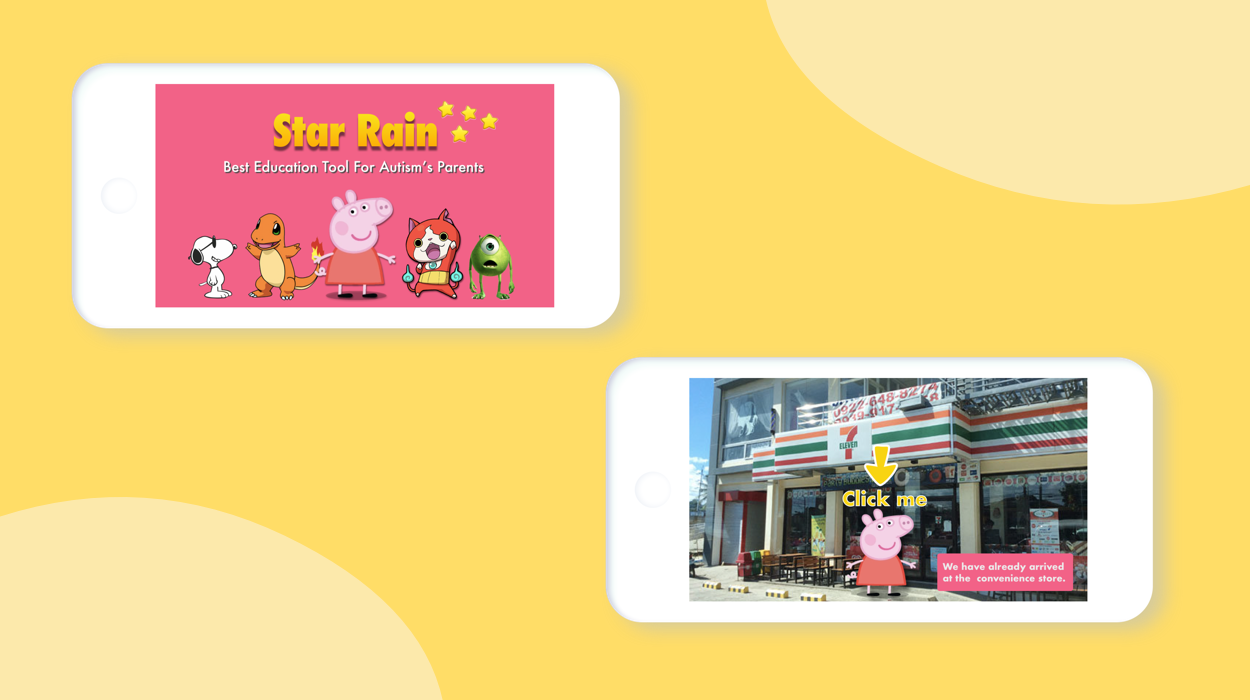
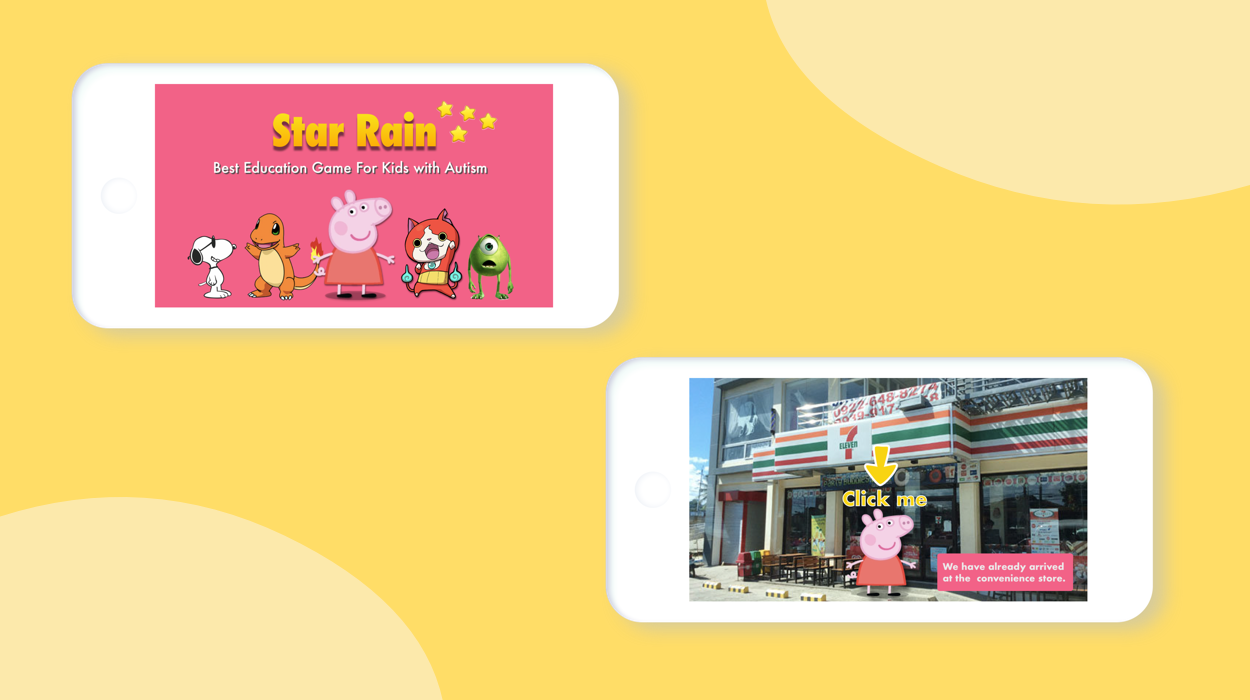
no message

Changed region(s): [[0.156, 0.3, 0.4368, 0.45], [0.156, 0.15, 0.4056, 0.27]]

diff --git a/index.html b/index.html
@@ -76,6 +76,31 @@
 
         <div id="root">
             <div data-reactroot class="Home container">
+                
+                <div class="Project">
+                    <div class="row">
+                        <div class="col-xs-12 col-sm-10 col-md-10 col-lg-offset-0 col-lg-8 col-xl-offset-1 col-xl-7">
+                            <img class="project-image" src="img/autism/starrain_banner2.png" alt="">
+                        </div>
+                    </div>
+                    <div class="row">
+                        <div class="col-xs-12 col-sm-offset-2 col-sm-10 col-md-offset-4 col-md-8 col-lg-offset-6 col-lg-6 col-xl-5">
+                            <div class="Plx Plx--active Plx--in Plx--in-0 plx" style="transform: translateY(-100px); opacity: 1;">
+                                <a class="project-link-container" href="star_rain.html">
+                                    <div class="project-blurb yellow">
+                                        <h2 class="homeh2" href="autism.html">Star Rain</h2>
+                                        <p class="homep" href="autism.html">A gamified app designed to help children with autism learn living skills and be more independent in the daily life.</p>
+                                        <div class="bottom">
+                                            <div class="next navbar-link yellow">
+                                                <a class="homecase next" href="autism.html">See more info → </a>
+                                            </div>
+                                        </div>
+                                    </div>
+                                </a>
+                            </div>
+                        </div>
+                    </div>
+                </div>
 
             	 <div class="Project">
                     <div class="row">
@@ -89,7 +114,7 @@
                                 <a class="project-link-container" href="istaging_VRMaker.html">
                                     <div class="project-blurb pink">
                                         <h2 class="homeh2" href="istaging.html">iStaging VR Maker</h2>
-                                        <p class="homep" href="istaging.html">Designing VR Maker, which easily creates 720° panoroma and immerse visualization experience. </p>
+                                        <p class="homep" href="istaging.html">Designed VR Maker that easily creates 720° panorama and provides immerse visualization experience. </p>
                                         <div class="bottom">
                                             <div class="next navbar-link blue">
                                                 <a class="homecase next" href="istaging .html">See more info → </a>
@@ -136,7 +161,7 @@
                                 <a class="project-link-container" href="kkday.html">
                                     <div class="project-blurb blue">
                                         <h2 class="homeh2" href="kkday.html">KKday</h2>
-                                        <p class="homep" href="kkday.html">Designing KKday App, which connects travelers with amazing local tours and activities around the world. </p>
+                                        <p class="homep" href="kkday.html">Designed KKday App that connects travelers with amazing local tours and activities around the world. </p>
                                         <div class="bottom">
                                             <div class="next navbar-link blue">
                                                 <a class="homecase next" href="kkday.html">See more info → </a>
@@ -148,30 +173,7 @@
                         </div>
                     </div>
                 </div>
-                 <div class="Project">
-                    <div class="row">
-                        <div class="col-xs-12 col-sm-10 col-md-10 col-lg-offset-0 col-lg-8 col-xl-offset-1 col-xl-7">
-                            <img class="project-image" src="img/autism/starrain_banner2.png" alt="">
-                        </div>
-                    </div>
-                    <div class="row">
-                        <div class="col-xs-12 col-sm-offset-2 col-sm-10 col-md-offset-4 col-md-8 col-lg-offset-6 col-lg-6 col-xl-5">
-                            <div class="Plx Plx--active Plx--in Plx--in-0 plx" style="transform: translateY(-100px); opacity: 1;">
-                                <a class="project-link-container" href="star_rain.html">
-                                    <div class="project-blurb yellow">
-                                        <h2 class="homeh2" href="autism.html">Star Rain</h2>
-                                        <p class="homep" href="autism.html">A gamified app designed to help children with autism learn living skills, and relieve parents' stress and depression.</p>
-                                        <div class="bottom">
-                                            <div class="next navbar-link yellow">
-                                                <a class="homecase next" href="autism.html">See more info → </a>
-                                            </div>
-                                        </div>
-                                    </div>
-                                </a>
-                            </div>
-                        </div>
-                    </div>
-                </div>
+                 
                 
                 <div class="Project">
                     <div class="row">
@@ -185,7 +187,7 @@
                                 <a class="project-link-container" href="shopee.html">
                                     <div class="project-blurb orange">
                                         <h2 class="homeh2" href="shopee.html">Shopee</h2>
-                                        <p class="homep" href="shopee.html">Providing an easy, secure and fast online shopping experience through strong payment and logistical support.</p>
+                                        <p class="homep" href="shopee.html">Designed a new feature of voucher wallet that provides an easy, secure and fast online shopping experience.</p>
                                         <div class="bottom">
                                             <div class="next navbar-link orange">
                                                 <a class="homecase next" href="shopee.html">See more info → </a>

diff --git a/shopee.html b/shopee.html
@@ -66,8 +66,8 @@
             <div class="leftcolumn">
                 <div class="contentbox">
                     <h3 class="contentH3">Overview</h3>
-                    <p>I was a customer experience designer intern in <a href="https://apps.apple.com/tw/app/%E8%9D%A6%E7%9A%AE%E8%B3%BC%E7%89%A9-9-9%E8%B6%85%E7%B4%9A%E8%B3%BC%E7%89%A9%E7%AF%80/id959841107" target="_blank">Shopee</a>, which is the leading e-commerce platform in Southeast Asia. My role was to redesign the voucher wallet. I was extremely lucky to have had the opportunity to join the team right before launch and to follow along the journey.</p>
-                    <p>My timeline was 20 weeks long. I started off by gathering existing research and working with the user researcher to learn the best approach to conducting interviews. I also worked closely with the product team to learn about the constraints and better understand the platform. I explored and shared my solutions with the design team, but also presented to the larger team to receive feedback. My favorite part was developing the interactive prototype of my final solution.
+                    <p>I was a customer experience designer intern in <a href="https://apps.apple.com/tw/app/%E8%9D%A6%E7%9A%AE%E8%B3%BC%E7%89%A9-9-9%E8%B6%85%E7%B4%9A%E8%B3%BC%E7%89%A9%E7%AF%80/id959841107" target="_blank">Shopee</a>, which is the leading e-commerce platform in Southeast Asia. My role was to redesign the voucher wallet. I was extremely lucky to have  the opportunity to join the team right before launch and to follow along the journey.</p>
+                    <p>My timeline was 20 weeks long. I started by gathering existing research and working with the user researchers to conduct interviews. I also worked closely with the product team to learn about the constraints and better understand the platform. I explored and shared my solutions with the design team, but also presented to the larger team to receive feedback. My favorite part was developing the interactive prototype of my final solution.
                 </div>
             </div>
             <div class="rightcolumn">
